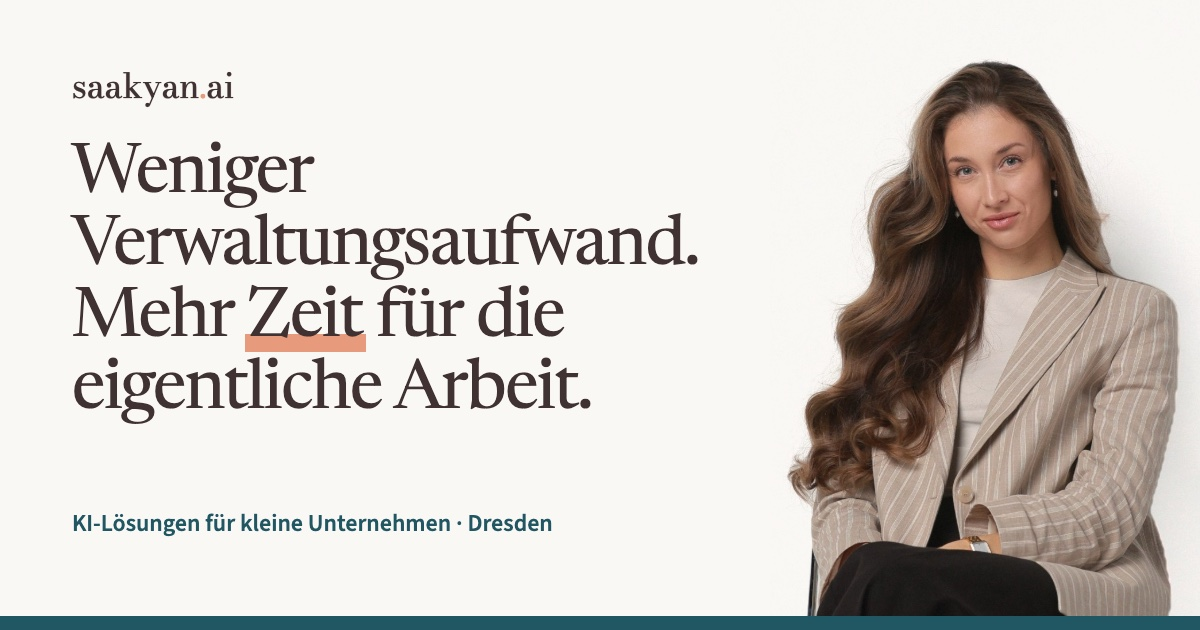
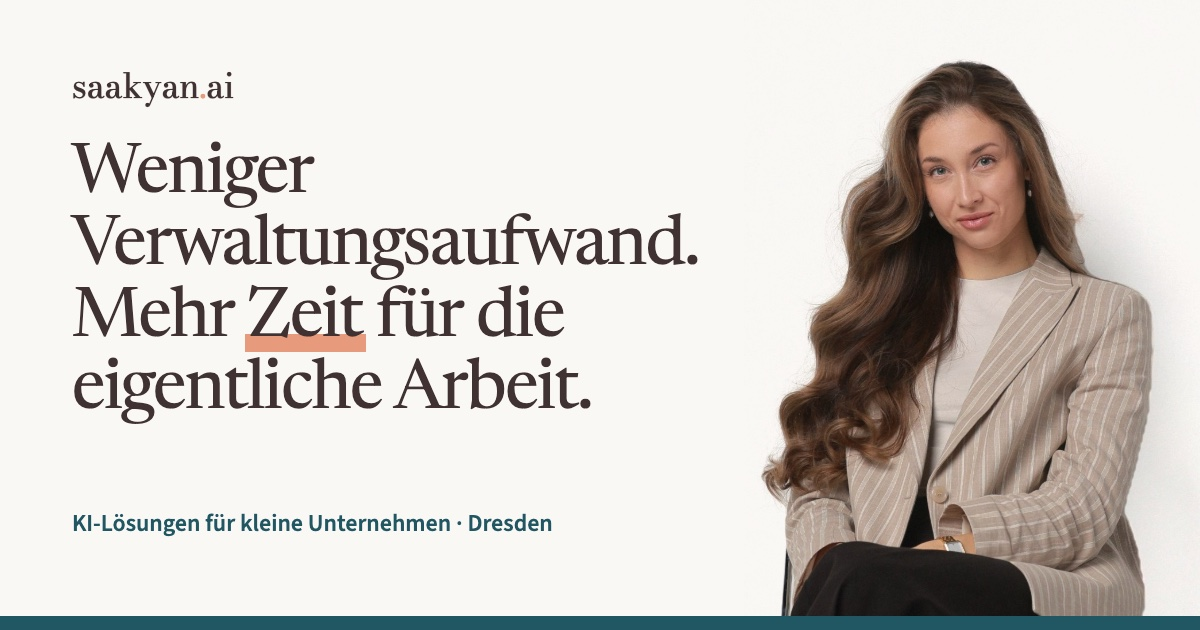
Link-Vorschau: Foto 26 px weiter links, Bildadresse mit ?v=2 für frischen Abruf

Changed region(s): [[0.6167, 0.0905, 0.9867, 0.9952]]

diff --git a/index.html b/index.html
@@ -12,7 +12,7 @@
   <meta property="og:url" content="https://saakyan.ai/">
   <meta property="og:title" content="KI-Lösungen für kleine Unternehmen in Dresden | Anna Saakyan">
   <meta property="og:description" content="Ich finde mit dir heraus, welche Aufgaben sich vereinfachen lassen, und richte passende KI-Lösungen ein. Für kleine Dienstleistungsunternehmen in Dresden. Erstgespräch kostenlos, Bestandsaufnahme als BAFA-geförderte Beratung möglich.">
-  <meta property="og:image" content="https://saakyan.ai/assets/vorschau.jpg">
+  <meta property="og:image" content="https://saakyan.ai/assets/vorschau.jpg?v=2">
   <meta property="og:image:width" content="1200">
   <meta property="og:image:height" content="630">
   <meta property="og:image:alt" content="Anna Saakyan im Nadelstreifen-Blazer neben der Überschrift: Weniger Verwaltungsaufwand. Mehr Zeit für die eigentliche Arbeit.">

diff --git a/leistungen.html b/leistungen.html
@@ -12,7 +12,7 @@
   <meta property="og:url" content="https://saakyan.ai/leistungen.html">
   <meta property="og:title" content="Leistungen und Preise | Anna Saakyan">
   <meta property="og:description" content="Bestandsaufnahme, Lösungen für einzelne Aufgaben, Einführungen und kleine eigene Anwendungen. Festpreis nach dem kostenlosen Erstgespräch.">
-  <meta property="og:image" content="https://saakyan.ai/assets/vorschau.jpg">
+  <meta property="og:image" content="https://saakyan.ai/assets/vorschau.jpg?v=2">
   <meta property="og:image:width" content="1200">
   <meta property="og:image:height" content="630">
   <meta property="og:image:alt" content="Anna Saakyan im Nadelstreifen-Blazer neben der Überschrift: Weniger Verwaltungsaufwand. Mehr Zeit für die eigentliche Arbeit.">

diff --git a/datenschutz.html b/datenschutz.html
@@ -10,7 +10,7 @@
   <meta property="og:locale" content="de_DE">
   <meta property="og:url" content="https://saakyan.ai/datenschutz.html">
   <meta property="og:title" content="Datenschutz | Anna Saakyan">
-  <meta property="og:image" content="https://saakyan.ai/assets/vorschau.jpg">
+  <meta property="og:image" content="https://saakyan.ai/assets/vorschau.jpg?v=2">
   <meta property="og:image:width" content="1200">
   <meta property="og:image:height" content="630">
   <meta property="og:image:alt" content="Anna Saakyan im Nadelstreifen-Blazer neben der Überschrift: Weniger Verwaltungsaufwand. Mehr Zeit für die eigentliche Arbeit.">

diff --git a/impressum.html b/impressum.html
@@ -10,7 +10,7 @@
   <meta property="og:locale" content="de_DE">
   <meta property="og:url" content="https://saakyan.ai/impressum.html">
   <meta property="og:title" content="Impressum | Anna Saakyan">
-  <meta property="og:image" content="https://saakyan.ai/assets/vorschau.jpg">
+  <meta property="og:image" content="https://saakyan.ai/assets/vorschau.jpg?v=2">
   <meta property="og:image:width" content="1200">
   <meta property="og:image:height" content="630">
   <meta property="og:image:alt" content="Anna Saakyan im Nadelstreifen-Blazer neben der Überschrift: Weniger Verwaltungsaufwand. Mehr Zeit für die eigentliche Arbeit.">
